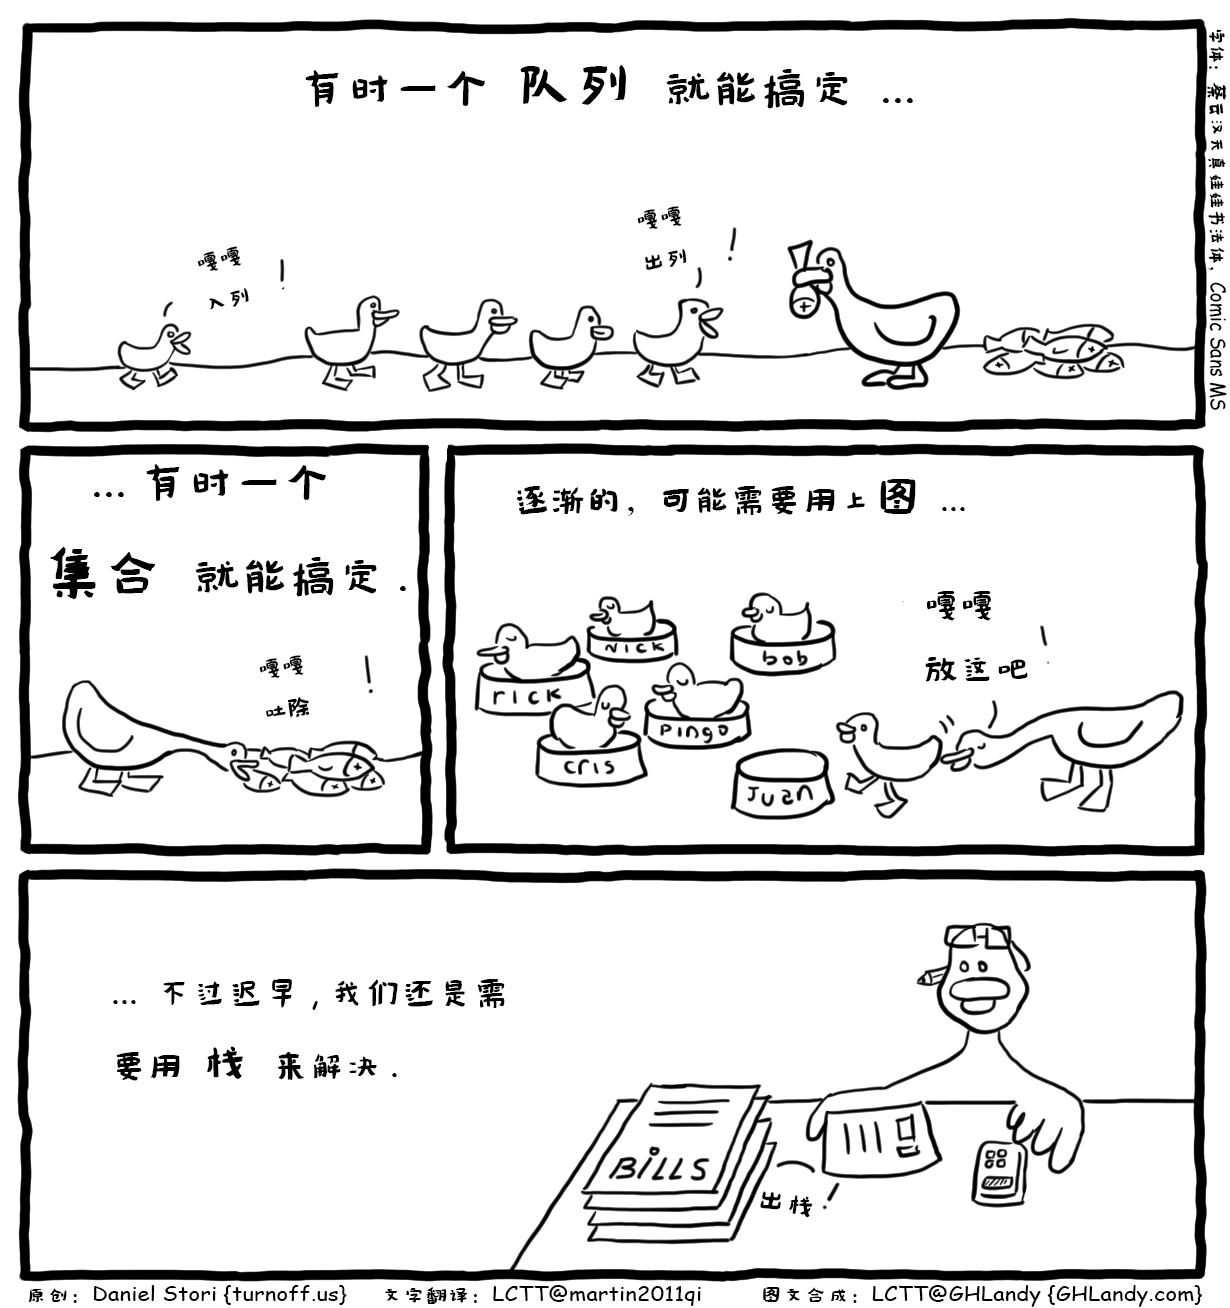
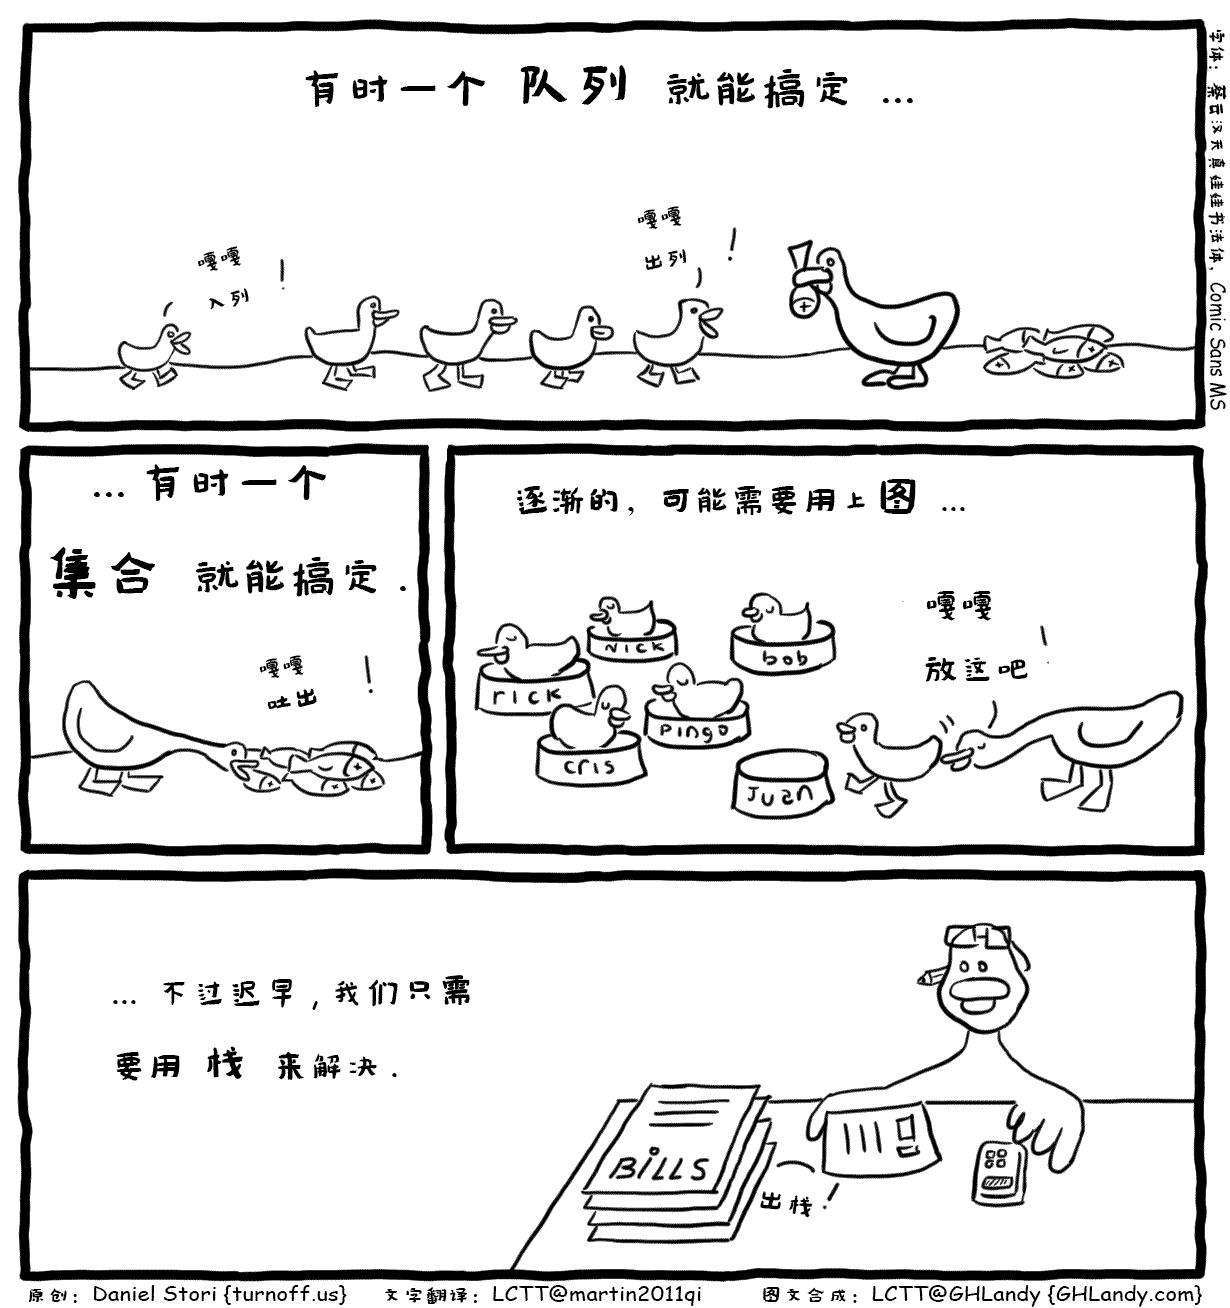
PUB:java-collections.md
@martin2011qi @GHLandy 我对文字有所调整

Changed region(s): [[0.3398, 0.7339, 0.4016, 0.7645], [0.2163, 0.5199, 0.278, 0.5505]]

diff --git a/turnoff.us/java-collections/[C]java-collections.md b/turnoff.us/java-collections/[C]java-collections.md
@@ -1,32 +1,34 @@
-鸭子爸爸生活中的 Java 集合框架
+鸭子爸爸生活中的 Java 集合
 =====
 
-![Java Collections in Duck Life](https://github.com/LCTT/comic/raw/master/turnoff.us/ava-collections/java-collections.png)
+![Java Collections in Duck Life](https://github.com/LCTT/comic/raw/master/turnoff.us/java-collections/java-collections.png)
 
 - 有时一个队列就能搞定 ...
 - 嘎嘎 入列！
 - 嘎嘎 出列！
 
-- ... 有时个用集合就够了.
-- 嘎嘎 吐除！
+- ... 有时一个集合就够了.
+- 嘎嘎 吐出！
 
 - 逐渐的，可能需要用上图 ...
 - 嘎嘎 放这吧！
 
-- ... 不过迟早，我们还是需要用栈来解决.
+- ... 不过迟早，我们只需要用栈来解决.
 - 出栈！
 
 
 点评：
 
 随着需求不断的增加，数据管理也将变得越发复杂。
-最后的那句话，完全只是因为函数存放在栈中，嘎嘎！
 
-via:
-- https://turnoff.us/geek/java-collections/
+从队列到集合，甚至用图来解决……
+
+有若一天，坐在办公桌前的鸭子爸爸发现，这些只不过都是个“堆栈”而已~
+
+via: https://turnoff.us/geek/java-collections/
 
 作者：[Daniel Stori][a]
-译者&点评：[译者ID](https://github.com/译者ID)
+译者&点评：[martin2011qi](https://github.com/martin2011qi)
 校对&合成：[GHLandy](https://github.com/GHLandy)
 
 本文由 [LCTT](https://github.com/LCTT/TranslateProject) 原创编译，[Linux中国](https://linux.cn/) 荣誉推出
